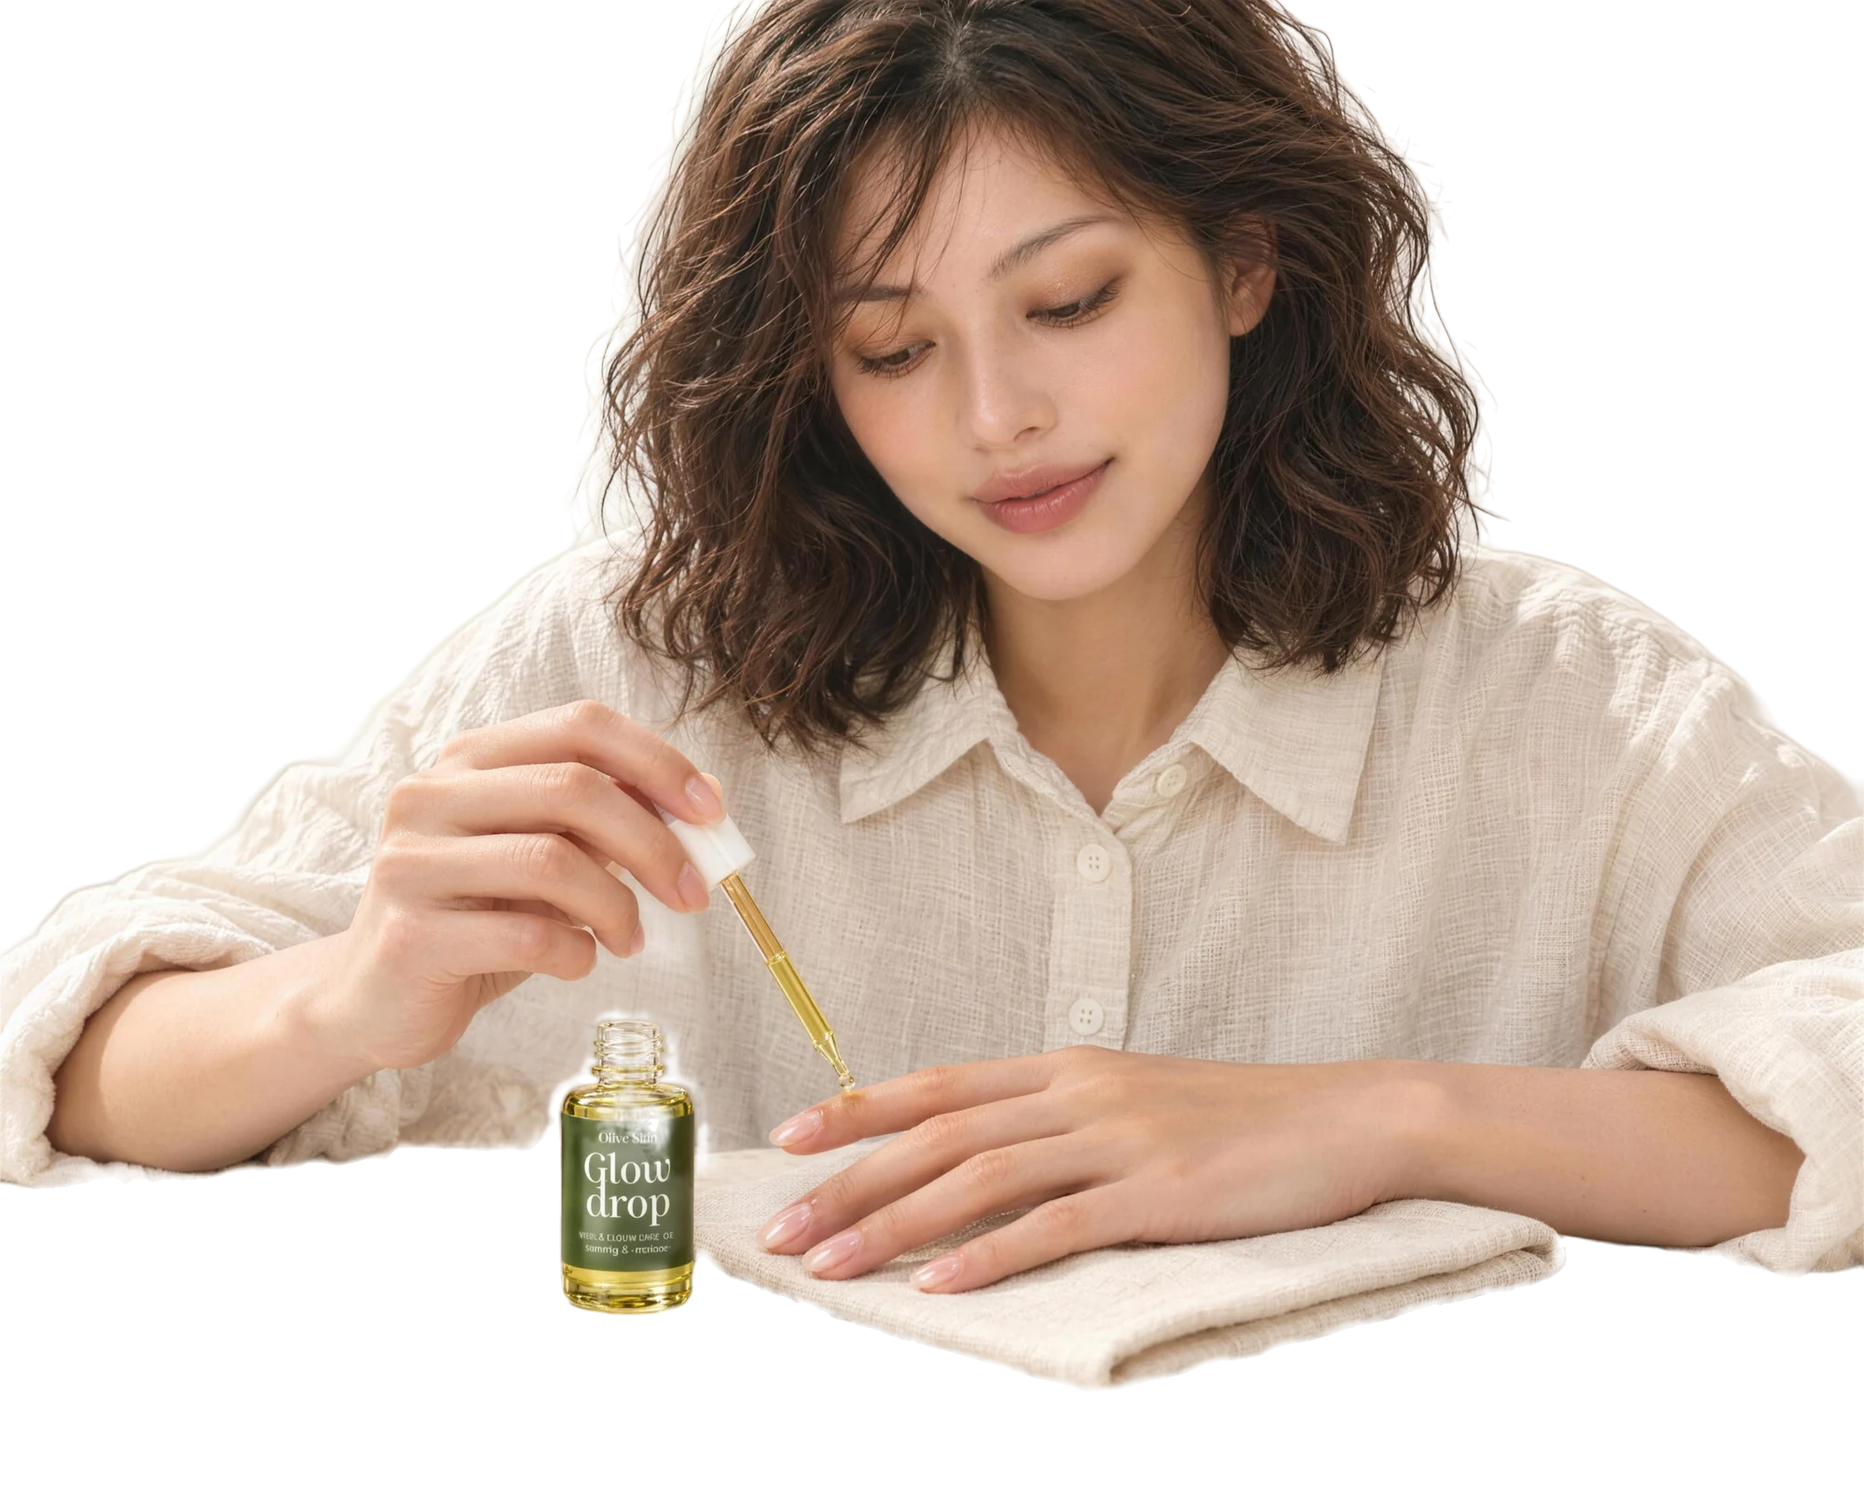
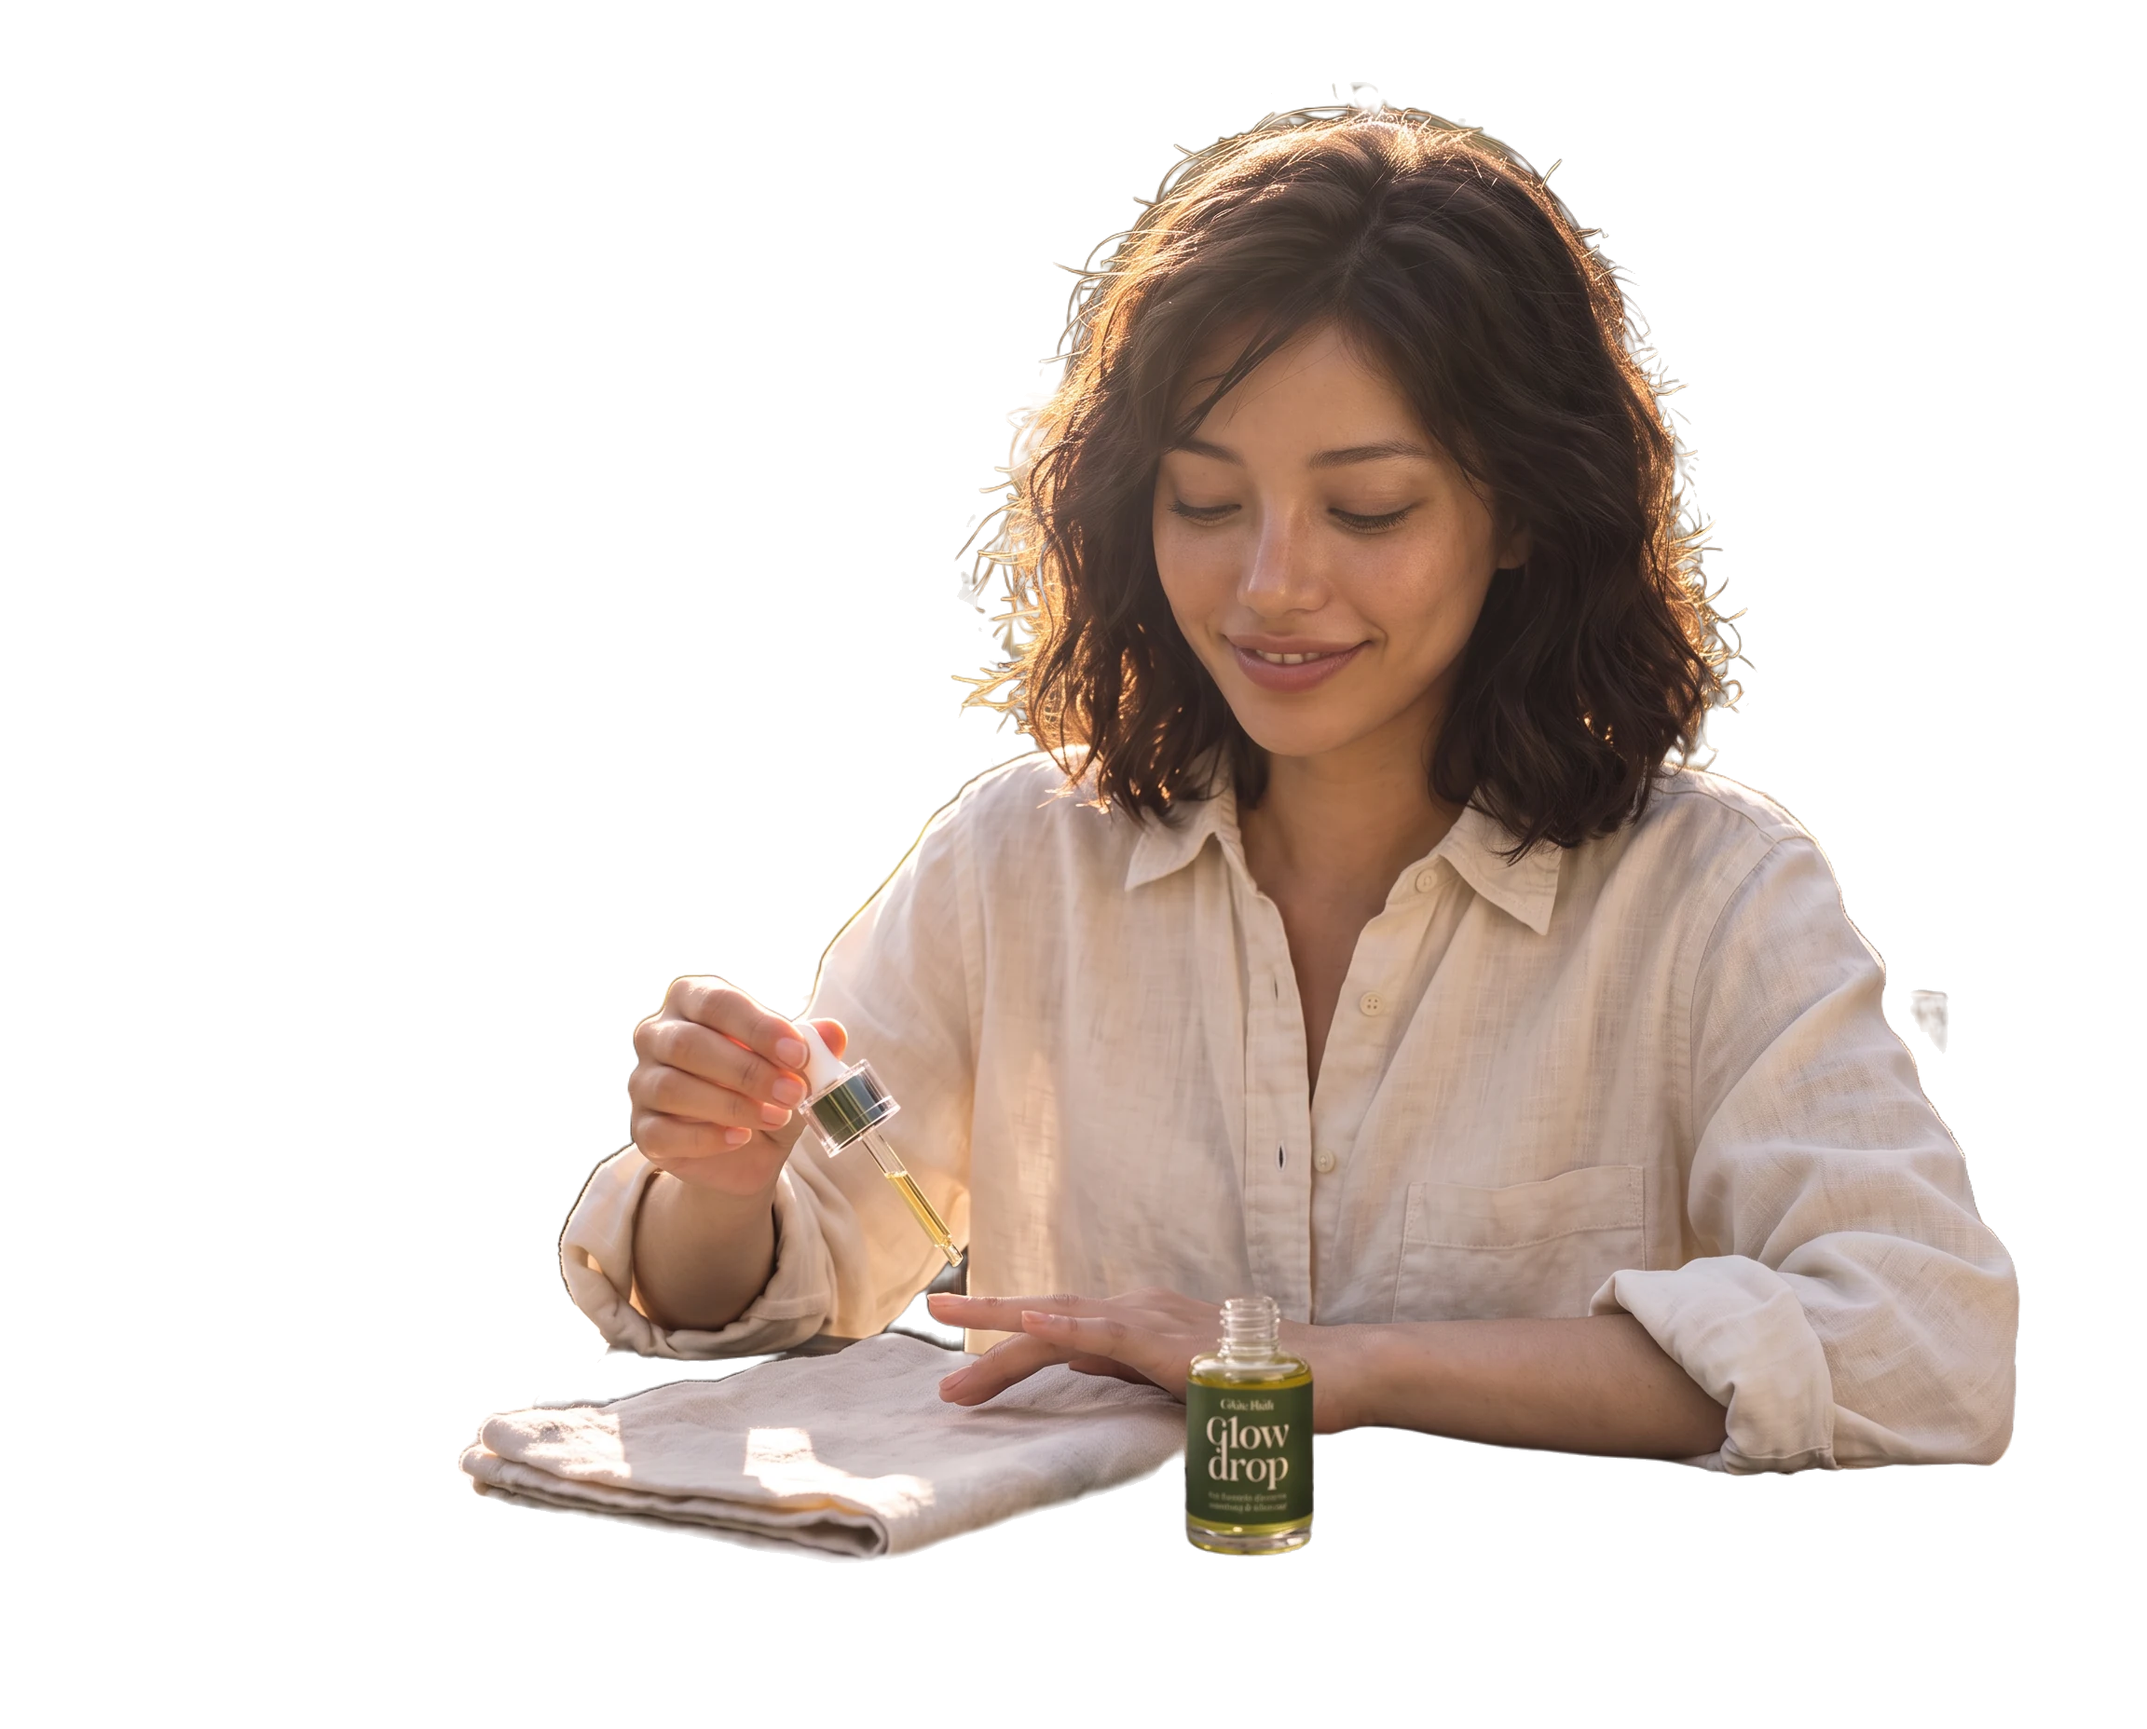
Replace the stage photo with a natural Nano Banana shot on a Napa terrace
Model applying Glow Drop at a weathered wood table under olive trees with
the vineyard behind; no upscaling so skin keeps real texture. Wordmark
switched to cream so it reads over the photo.

Claude-Session: https://claude.ai/code/session_019wNfXHQ7e4JMNHAKsg49UT

diff --git a/kr/index.html b/kr/index.html
@@ -73,9 +73,9 @@ h1,h2,h3{margin:0;font-family:var(--sans);font-weight:400;line-height:1.2;letter
 /* brand — giant wordmark with the model breaking through it */
 .brand{padding-top:clamp(16px,2vw,24px)}
 .hero-stage{position:relative;height:clamp(440px,66vw,880px);overflow:hidden;border-radius:18px;background:#EDE7DD}
-.hero-stage .stage-photo,.hero-stage .hero-model{position:absolute;inset:0;width:100%;height:100%;max-width:none;object-fit:cover;object-position:50% 62%}
+.hero-stage .stage-photo,.hero-stage .hero-model{position:absolute;inset:0;width:100%;height:100%;max-width:none;object-fit:cover;object-position:62% 45%}
 .hero-word{position:absolute;left:0;right:0;top:3%;margin:0;text-align:center;white-space:nowrap;font-family:var(--display);font-weight:500;font-size:clamp(84px,19.5vw,272px);line-height:.9;letter-spacing:-.035em;color:var(--sage-deep);text-transform:lowercase;user-select:none}
-.hero-word{z-index:1}
+.hero-word{z-index:1;color:#FBF8F1;opacity:.94;text-shadow:0 2px 24px rgba(40,44,28,.18)}
 .hero-model{z-index:2;pointer-events:none}
 
 /* rhode-style rounded cards */
@@ -412,9 +412,9 @@ if(!location.hash){window.scrollTo(0,0);addEventListener('load',()=>{window.scro
 
   <section class="brand wrap" aria-label="Olive Skin">
     <div class="hero-stage">
-      <img class="stage-photo" src="../images/apply.webp" width="2000" height="1600" loading="lazy" alt="Model at a table applying Glow Drop oil to her nails with the glass dropper" data-i18n-alt="altModel">
+      <img class="stage-photo" src="../images/apply.webp" width="2304" height="1856" loading="lazy" alt="Model at a table applying Glow Drop oil to her nails with the glass dropper" data-i18n-alt="altModel">
       <p class="hero-word" aria-hidden="true">olive skin</p>
-      <img class="hero-model" src="../images/apply-cut.webp" width="2000" height="1600" loading="lazy" alt="">
+      <img class="hero-model" src="../images/apply-cut.webp" width="2304" height="1856" loading="lazy" alt="">
     </div>
   </section>
 

diff --git a/index.html b/index.html
@@ -71,9 +71,9 @@ h1,h2,h3{margin:0;font-family:var(--sans);font-weight:400;line-height:1.2;letter
 /* brand — giant wordmark with the model breaking through it */
 .brand{padding-top:clamp(16px,2vw,24px)}
 .hero-stage{position:relative;height:clamp(440px,66vw,880px);overflow:hidden;border-radius:18px;background:#EDE7DD}
-.hero-stage .stage-photo,.hero-stage .hero-model{position:absolute;inset:0;width:100%;height:100%;max-width:none;object-fit:cover;object-position:50% 62%}
+.hero-stage .stage-photo,.hero-stage .hero-model{position:absolute;inset:0;width:100%;height:100%;max-width:none;object-fit:cover;object-position:62% 45%}
 .hero-word{position:absolute;left:0;right:0;top:3%;margin:0;text-align:center;white-space:nowrap;font-family:var(--display);font-weight:500;font-size:clamp(84px,19.5vw,272px);line-height:.9;letter-spacing:-.035em;color:var(--sage-deep);text-transform:lowercase;user-select:none}
-.hero-word{z-index:1}
+.hero-word{z-index:1;color:#FBF8F1;opacity:.94;text-shadow:0 2px 24px rgba(40,44,28,.18)}
 .hero-model{z-index:2;pointer-events:none}
 
 /* rhode-style rounded cards */
@@ -410,9 +410,9 @@ if(!location.hash){window.scrollTo(0,0);addEventListener('load',()=>{window.scro
 
   <section class="brand wrap" aria-label="Olive Skin">
     <div class="hero-stage">
-      <img class="stage-photo" src="images/apply.webp" width="2000" height="1600" loading="lazy" alt="Model at a table applying Glow Drop oil to her nails with the glass dropper" data-i18n-alt="altModel">
+      <img class="stage-photo" src="images/apply.webp" width="2304" height="1856" loading="lazy" alt="Model at a table applying Glow Drop oil to her nails with the glass dropper" data-i18n-alt="altModel">
       <p class="hero-word" aria-hidden="true">olive skin</p>
-      <img class="hero-model" src="images/apply-cut.webp" width="2000" height="1600" loading="lazy" alt="">
+      <img class="hero-model" src="images/apply-cut.webp" width="2304" height="1856" loading="lazy" alt="">
     </div>
   </section>
 
